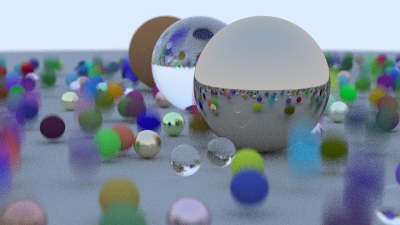
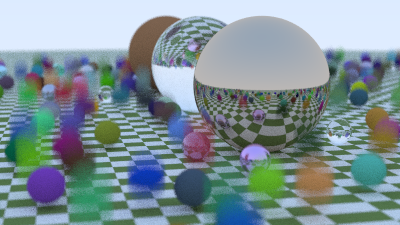
feat: checker

diff --git a/src/sphere.cpp b/src/sphere.cpp
@@ -5,9 +5,11 @@
 #include "material.hpp"
 #include "point.hpp"
 #include "ray.hpp"
+#include "texture.hpp"
 #include "vec3.hpp"
 #include <cmath>
 #include <memory>
+#include <numbers>
 #include <optional>
 #include <utility>
 
@@ -26,6 +28,14 @@ Sphere::Sphere(Point center, double radius, std::shared_ptr<Material> material)
       material_(std::move(material)),
       bbox(center - Vec3{.x = radius, .y = radius, .z = radius},
            center + Vec3{.x = radius, .y = radius, .z = radius}) {}
+
+TextureCoordinate Sphere::texture_coordinate(const Point &p) {
+  auto theta = std::acos(-p.y);
+  auto phi = std::atan2(-p.z, p.x) + std::numbers::pi;
+
+  return TextureCoordinate{.u = phi / (2 * std::numbers::pi),
+                           .v = theta / std::numbers::pi};
+}
 
 std::optional<HitRecord> Sphere::hit(const Ray &ray, Interval interval) const {
   auto current_center = center_.at(ray.time_);
@@ -51,12 +61,14 @@ std::optional<HitRecord> Sphere::hit(const Ray &ray, Interval interval) const {
   auto hit_point = ray.at(distance);
   auto normal = (hit_point - current_center) / radius_;
 
+  auto coord = texture_coordinate(hit_point);
+
   if (normal.dot(ray.direction_) > 0) {
     return HitRecord(hit_point, HitRecord::Direction::Inward, -normal, distance,
-                     material_);
+                     material_, coord);
   }
   return HitRecord(hit_point, HitRecord::Direction::Outward, normal, distance,
-                   material_);
+                   material_, coord);
 }
 
 AABB Sphere::bounding_box() const { return bbox; }

diff --git a/include/texture.hpp b/include/texture.hpp
@@ -1,0 +1,51 @@
+#pragma once
+
+#include "color.hpp"
+#include "point.hpp"
+#include <memory>
+
+class TextureCoordinate {
+public:
+  double u, v;
+};
+
+class Texture {
+
+public:
+  Texture() = default;
+
+  Texture(const Texture &) = default;
+  Texture &operator=(const Texture &) = default;
+
+  Texture(Texture &&) = delete;
+  Texture &operator=(Texture &&) = delete;
+
+  virtual ~Texture() = default;
+
+  [[nodiscard]] virtual Color value(const TextureCoordinate &coord,
+                                    const Point &p) const = 0;
+};
+
+class SolidColor : public Texture {
+public:
+  Color albedo_;
+
+  explicit SolidColor(const Color &albedo);
+  [[nodiscard]] Color value(const TextureCoordinate &coord,
+                            const Point &p) const override;
+};
+
+class CheckerTexture : public Texture {
+public:
+  CheckerTexture(double scale, std::shared_ptr<Texture> even,
+                 std::shared_ptr<Texture> odd);
+  CheckerTexture(double scale, const Color &c1, const Color &c2);
+
+  [[nodiscard]] Color value(const TextureCoordinate &coord,
+                            const Point &p) const override;
+
+private:
+  double inv_scale;
+  std::shared_ptr<Texture> even_;
+  std::shared_ptr<Texture> odd_;
+};

diff --git a/src/texture.cpp b/src/texture.cpp
@@ -1,0 +1,27 @@
+#include "texture.hpp"
+#include <memory>
+#include <utility>
+
+SolidColor::SolidColor(const Color &albedo) : albedo_(albedo) {}
+
+Color SolidColor::value(const TextureCoordinate & /*coord*/,
+                        const Point & /*p*/) const {
+  return albedo_;
+}
+
+CheckerTexture::CheckerTexture(double scale, std::shared_ptr<Texture> even,
+                               std::shared_ptr<Texture> odd)
+    : inv_scale(1.0 / scale), even_(std::move(even)), odd_(std::move(odd)) {}
+
+CheckerTexture::CheckerTexture(double scale, const Color &c1, const Color &c2)
+    : CheckerTexture(scale, std::make_shared<SolidColor>(c1),
+                     std::make_shared<SolidColor>(c2)) {}
+
+Color CheckerTexture::value(const TextureCoordinate &coord,
+                            const Point &p) const {
+  auto ix = static_cast<int>(inv_scale * p.x);
+  auto iy = static_cast<int>(inv_scale * p.y);
+  auto iz = static_cast<int>(inv_scale * p.z);
+  auto is_even = (ix + iy + iz) % 2 == 0;
+  return is_even ? even_->value(coord, p) : odd_->value(coord, p);
+}

diff --git a/src/material.cpp b/src/material.cpp
@@ -2,13 +2,18 @@
 #include "color.hpp"
 #include "hit.hpp"
 #include "ray.hpp"
+#include "texture.hpp"
 #include "utils.hpp"
 #include "vec3.hpp"
 #include <algorithm>
 #include <cmath>
+#include <memory>
 #include <optional>
+#include <utility>
 
-Lambertian::Lambertian(Color albedo) : albedo_(albedo) {};
+Lambertian::Lambertian(const Color &color)
+    : tex_(std::make_shared<SolidColor>(color)) {};
+Lambertian::Lambertian(std::shared_ptr<Texture> tex) : tex_(std::move(tex)) {};
 
 std::optional<Scatter> Lambertian::scatter(const Ray &ray,
                                            const HitRecord &rec) const {
@@ -17,7 +22,8 @@ std::optional<Scatter> Lambertian::scatter(const Ray &ray,
     direction = rec.normal_;
   }
   auto scattered = Ray{rec.hit_point_, direction, ray.time_};
-  return Scatter{.scattered = scattered, .attenuation = albedo_};
+  return Scatter{.scattered = scattered,
+                 .attenuation = tex_->value(rec.coord_, rec.hit_point_)};
 }
 
 Metal::Metal(Color albedo, double fuzz)

diff --git a/src/hit.cpp b/src/hit.cpp
@@ -1,14 +1,16 @@
 #include "hit.hpp"
 #include "material.hpp"
 #include "point.hpp"
+#include "texture.hpp"
 #include "vec3.hpp"
 #include <memory>
 #include <utility>
 
 HitRecord::HitRecord(Point hit_point, Direction direction, Vec3 normal,
-                     double distance, std::shared_ptr<Material> material)
+                     double distance, std::shared_ptr<Material> material,
+                     TextureCoordinate coord)
     : hit_point_(hit_point), direction_(direction), normal_(normal),
-      distance_(distance), material_(std::move(material)) {}
+      distance_(distance), material_(std::move(material)), coord_(coord) {}
 
 bool Hittable::box_x_compare(const std::unique_ptr<Hittable> &lhs,
                              const std::unique_ptr<Hittable> &rhs) {

diff --git a/src/main.cpp b/src/main.cpp
@@ -4,6 +4,7 @@
 #include "material.hpp"
 #include "point.hpp"
 #include "sphere.hpp"
+#include "texture.hpp"
 #include "utils.hpp"
 #include "vec3.hpp"
 #include "world.hpp"
@@ -16,8 +17,10 @@ int main() {
 
   auto world = World();
 
-  auto material_ground =
-      std::make_shared<Lambertian>(Color{.r = 0.5, .g = 0.5, .b = 0.5});
+  auto checker = std::make_shared<CheckerTexture>(
+      0.32, Color{.r = .2, .g = .3, .b = .1}, Color{.r = .9, .g = .9, .b = .9});
+
+  auto material_ground = std::make_shared<Lambertian>(checker);
   world.add(std::make_unique<Sphere>(Point{.x = 0, .y = -1000, .z = 0}, 1000,
                                      material_ground));
 

diff --git a/include/material.hpp b/include/material.hpp
@@ -2,7 +2,9 @@
 
 #include "color.hpp"
 #include "ray.hpp"
+#include "texture.hpp"
 #include <cmath>
+#include <memory>
 #include <optional>
 
 class HitRecord;
@@ -28,13 +30,14 @@ public:
 
 class Lambertian : public Material {
 public:
-  explicit Lambertian(Color albedo);
+  explicit Lambertian(const Color &color);
+  explicit Lambertian(std::shared_ptr<Texture> tex);
 
   [[nodiscard]] std::optional<Scatter>
   scatter(const Ray &ray, const HitRecord &rec) const override;
 
 private:
-  Color albedo_;
+  std::shared_ptr<Texture> tex_;
 };
 
 class Metal : public Material {

diff --git a/include/hit.hpp b/include/hit.hpp
@@ -5,6 +5,7 @@
 #include "material.hpp"
 #include "point.hpp"
 #include "ray.hpp"
+#include "texture.hpp"
 #include "vec3.hpp"
 #include <cstdint>
 #include <memory>
@@ -21,8 +22,10 @@ public:
   double distance_;
   std::shared_ptr<Material> material_;
 
+  TextureCoordinate coord_;
+
   HitRecord(Point hit_point, Direction direction, Vec3 normal, double distance,
-            std::shared_ptr<Material> material);
+            std::shared_ptr<Material> material, TextureCoordinate tex_coord);
 };
 
 class Hittable {

diff --git a/include/sphere.hpp b/include/sphere.hpp
@@ -5,6 +5,7 @@
 #include "interval.hpp"
 #include "material.hpp"
 #include "point.hpp"
+#include "texture.hpp"
 #include <memory>
 #include <optional>
 
@@ -18,6 +19,8 @@ public:
                                              Interval interval) const override;
 
   [[nodiscard]] AABB bounding_box() const override;
+
+  static TextureCoordinate texture_coordinate(const Point &p);
 
 private:
   Ray center_;
